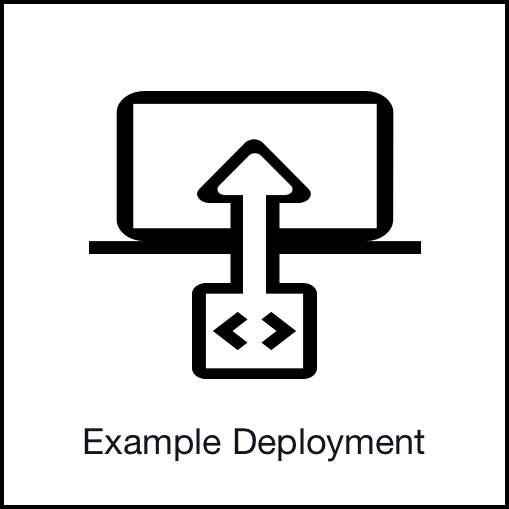
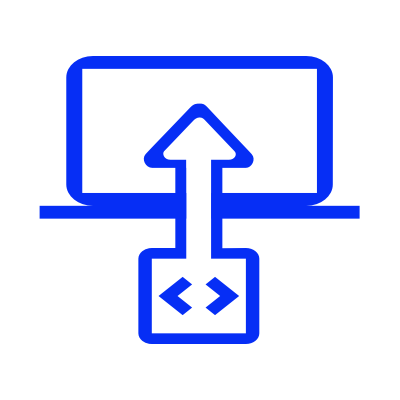
adjust page buttons to better resemble buttons

Changed region(s): [[0.09, 0.12, 0.9, 0.93], [0.0, 0.0, 1.0, 1.0]]

diff --git a/docs/_static/css/nm-theme-adjustment.css b/docs/_static/css/nm-theme-adjustment.css
@@ -15,6 +15,15 @@ body,
     border-left:  solid 1px #000000;
 }
 
+.wy-nav-top {
+    background: #062EF5;
+    color: #ffffff;
+}
+
+.wy-nav-top a {
+    color: #ffffff;
+}
+
 .highlight {
     background: #f5f5f5;
 }
@@ -153,4 +162,27 @@ a:visited {
 
 .btn:hover .fa, .btn.btn-neutral:hover .fa {
     color: #f6f7fe !important;
+}
+
+.model-page-button {
+    background: #ffffff;
+    color: #062Ef5;
+    box-shadow: none;
+    border: solid 2px;
+    border-radius: 4px;
+    padding: 16px;
+}
+
+.model-page-button img {
+    filter: invert(1);
+}
+
+.model-page-button:hover {
+    cursor: pointer;
+    background: #062EF5;
+    color: #f6f7fe;
+}
+
+.model-page-button:hover img {
+    filter: brightness(0) invert(1);
 }

diff --git a/docs/source/model-pages/cv-detection-yolov3.md b/docs/source/model-pages/cv-detection-yolov3.md
@@ -40,31 +40,31 @@ This page walks through the following use cases for trying out the sparsified YO
 ## Run
 
 <div style="margin-bottom: 24px; display: flex; flex-direction: row;">
-    <a href="https://github.com/neuralmagic/deepsparse/tree/main/examples/ultralytics-yolov3#annotation-example" style="padding-right: 8px">
-        <img src="https://docs.neuralmagic.com/docs/source/model-pages/images/icon-example-application.png" alt="Example Application" style="max-width: 224px; width: 100%" />
+    <a href="https://github.com/neuralmagic/deepsparse/tree/main/examples/ultralytics-yolov3#annotation-example" class="model-page-button" style="display: flex; flex-direction: column; margin-right: 8px; align-items: center;">
+        <img src="https://docs.neuralmagic.com/docs/source/model-pages/images/icon-example-application.png" alt="Example Application" style="max-width: 160px; width: 100%;" />
+        <div style="margin-top: 8px; text-align: center;">Example Application</div>
     </a>
-    <a href="https://github.com/neuralmagic/deepsparse/tree/main/examples/ultralytics-yolov3#example-yolo-deepsparse-flask-server" style="padding-right: 8px">
-        <img src="https://docs.neuralmagic.com/docs/source/model-pages/images/icon-example-deployment.png" alt="Example Deployment" style="max-width: 224px; width: 100%" />
+    <a href="https://github.com/neuralmagic/deepsparse/tree/main/examples/ultralytics-yolov3#example-yolo-deepsparse-flask-server" class="model-page-button" style="display: flex; flex-direction: column; margin-right: 8px; align-items: center;">
+        <img src="https://docs.neuralmagic.com/docs/source/model-pages/images/icon-example-deployment.png" alt="Example Deployment" style="max-width: 160px; width: 100%;" />
+        <div style="margin-top: 8px; text-align: center;">Example Deployment</div>
     </a>
-    <a style="pointer-events: none; padding-right: 8px">
+    <a class="model-page-button" style="pointer-events: none; margin-right: 8px; max-width: 160px; width: 100%;">
         <!-- placeholder for 3 column grid -->
-        <img src="https://docs.neuralmagic.com/docs/source/model-pages/images/icon-example-deployment.png" alt="Example Deployment" style="max-width: 224px; width: 100%; visibility: hidden" />
     </a>
 </div>
 
 ## Train
 
 <div style="margin-bottom: 24px; display: flex; flex-direction: row;">
-    <a href="https://github.com/neuralmagic/sparseml/blob/main/integrations/ultralytics-yolov3/tutorials/sparsifying_yolov3_using_recipes.md" style="padding-right: 8px">
-        <img src="https://docs.neuralmagic.com/docs/source/model-pages/images/icon-train-apply-recipe.png" alt="Applying a Recipe" style="max-width: 224px; width: 100%" />
+    <a href="https://github.com/neuralmagic/sparseml/blob/main/integrations/ultralytics-yolov3/tutorials/sparsifying_yolov3_using_recipes.md" class="model-page-button" style="display: flex; flex-direction: column; margin-right: 8px; align-items: center;">
+        <img src="https://docs.neuralmagic.com/docs/source/model-pages/images/icon-train-apply-recipe.png" alt="Example Application" style="max-width: 160px; width: 100%;" />
+        <div style="margin-top: 8px; text-align: center;">Applying a Recipe</div>
     </a>
-    <a style="pointer-events: none; padding-right: 8px">
+    <a class="model-page-button" style="pointer-events: none; margin-right: 8px; max-width: 160px; width: 100%;">
         <!-- placeholder for 3 column grid -->
-        <img src="https://docs.neuralmagic.com/docs/source/model-pages/images/icon-example-deployment.png" style="max-width: 224px; width: 100%; visibility: hidden" />
     </a>
-    <a style="pointer-events: none; padding-right: 8px">
+    <a class="model-page-button" style="pointer-events: none; margin-right: 8px; max-width: 160px; width: 100%;">
         <!-- placeholder for 3 column grid -->
-        <img src="https://docs.neuralmagic.com/docs/source/model-pages/images/icon-example-deployment.png" ****style="max-width: 224px; width: 100%; visibility: hidden" />
     </a>
 </div>
 
